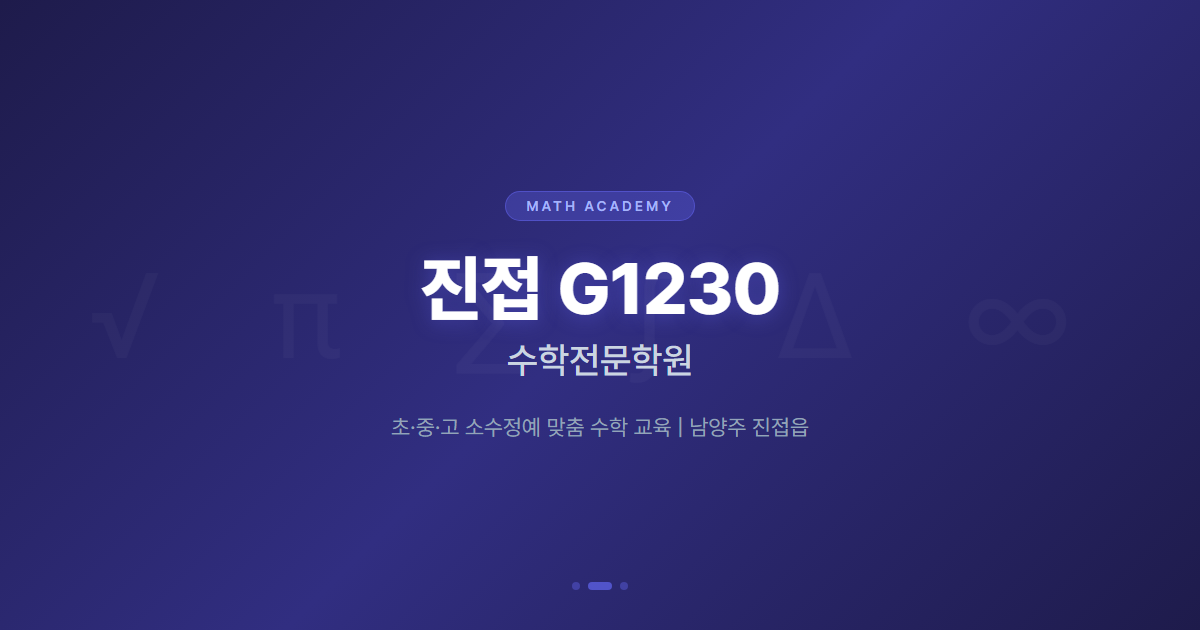
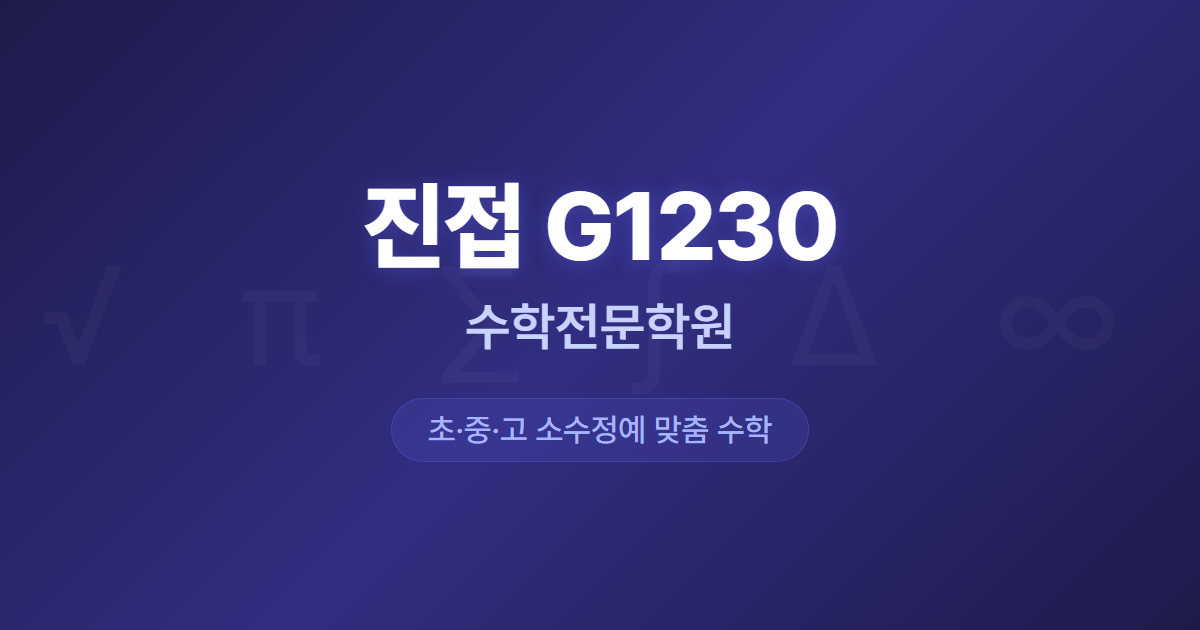
fix: OG 이미지 텍스트 크기 확대 - 카카오톡 공유 가독성 개선

Changed region(s): [[0.3083, 0.2714, 0.7092, 0.6032], [0.3083, 0.6635, 0.6783, 0.7238], [0.4625, 0.9048, 0.5242, 0.9349]]

diff --git a/scripts/gen-og-image.html b/scripts/gen-og-image.html
@@ -33,64 +33,36 @@
             top: 50%;
             left: 50%;
             transform: translate(-50%, -50%);
-            font-size: 120px;
+            font-size: 140px;
             color: rgba(255, 255, 255, 0.03);
             letter-spacing: 40px;
             white-space: nowrap;
         }
 
-        .badge {
-            background: rgba(99, 102, 241, 0.3);
-            border: 1px solid rgba(99, 102, 241, 0.5);
-            color: #a5b4fc;
-            font-size: 14px;
-            font-weight: 600;
-            letter-spacing: 3px;
-            padding: 6px 20px;
-            border-radius: 50px;
-            margin-bottom: 24px;
-        }
-
         .title {
             color: #fff;
-            font-size: 72px;
+            font-size: 96px;
             font-weight: 800;
-            letter-spacing: -1px;
-            margin-bottom: 8px;
+            letter-spacing: -2px;
+            margin-bottom: 12px;
             text-shadow: 0 2px 20px rgba(99, 102, 241, 0.4);
         }
 
         .subtitle {
-            color: #cbd5e1;
-            font-size: 36px;
-            font-weight: 500;
-            margin-bottom: 32px;
+            color: #c7d2fe;
+            font-size: 52px;
+            font-weight: 600;
+            margin-bottom: 40px;
         }
 
         .tagline {
-            color: #94a3b8;
-            font-size: 22px;
-            font-weight: 400;
-        }
-
-        .dots {
-            position: absolute;
-            bottom: 40px;
-            display: flex;
-            gap: 8px;
-        }
-
-        .dots span {
-            width: 8px;
-            height: 8px;
-            background: rgba(99, 102, 241, 0.4);
-            border-radius: 50%;
-        }
-
-        .dots span:nth-child(2) {
-            background: rgba(99, 102, 241, 0.7);
-            width: 24px;
-            border-radius: 4px;
+            color: #a5b4fc;
+            font-size: 32px;
+            font-weight: 500;
+            background: rgba(99, 102, 241, 0.15);
+            border: 1px solid rgba(99, 102, 241, 0.3);
+            padding: 12px 36px;
+            border-radius: 50px;
         }
     </style>
     <link rel="stylesheet"
@@ -99,11 +71,9 @@
 
 <body>
     <div class="card">
-        <div class="badge">MATH ACADEMY</div>
         <div class="title">진접 G1230</div>
         <div class="subtitle">수학전문학원</div>
-        <div class="tagline">초·중·고 소수정예 맞춤 수학 교육 | 남양주 진접읍</div>
-        <div class="dots"><span></span><span></span><span></span></div>
+        <div class="tagline">초·중·고 소수정예 맞춤 수학</div>
     </div>
 </body>
 
